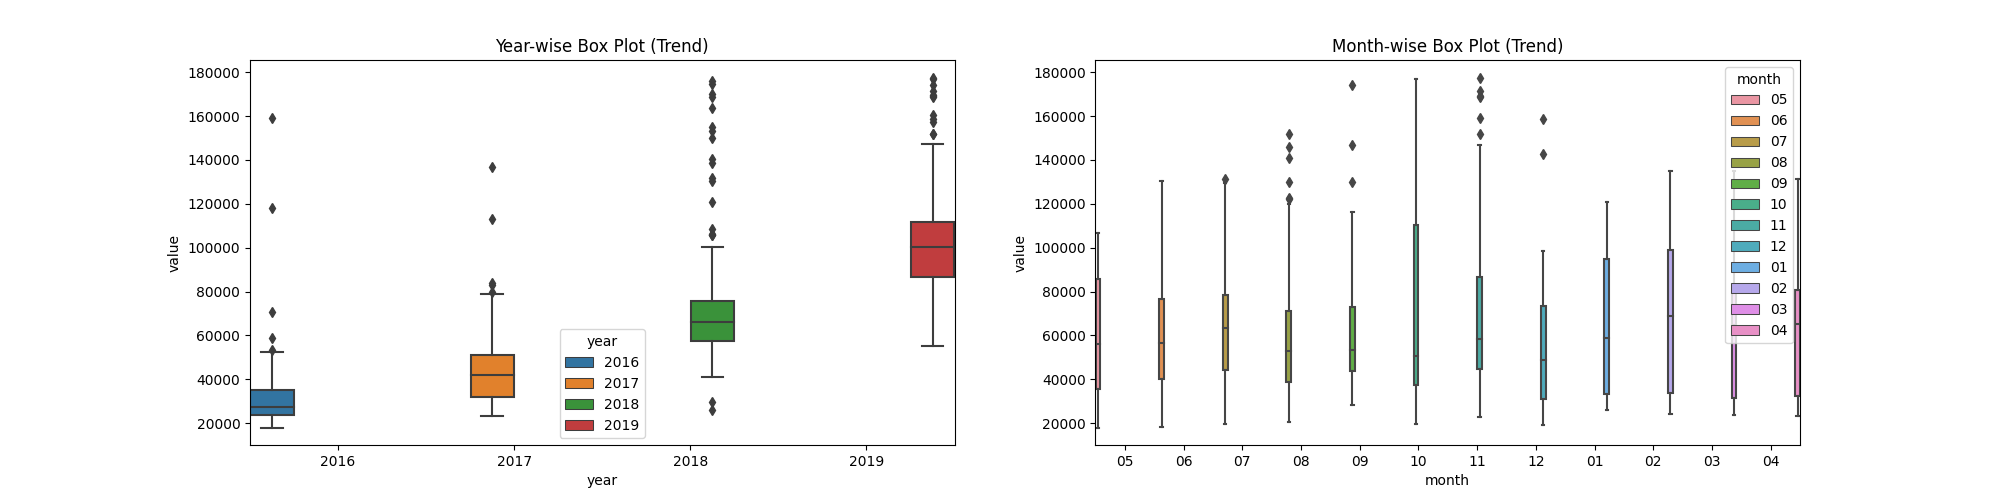
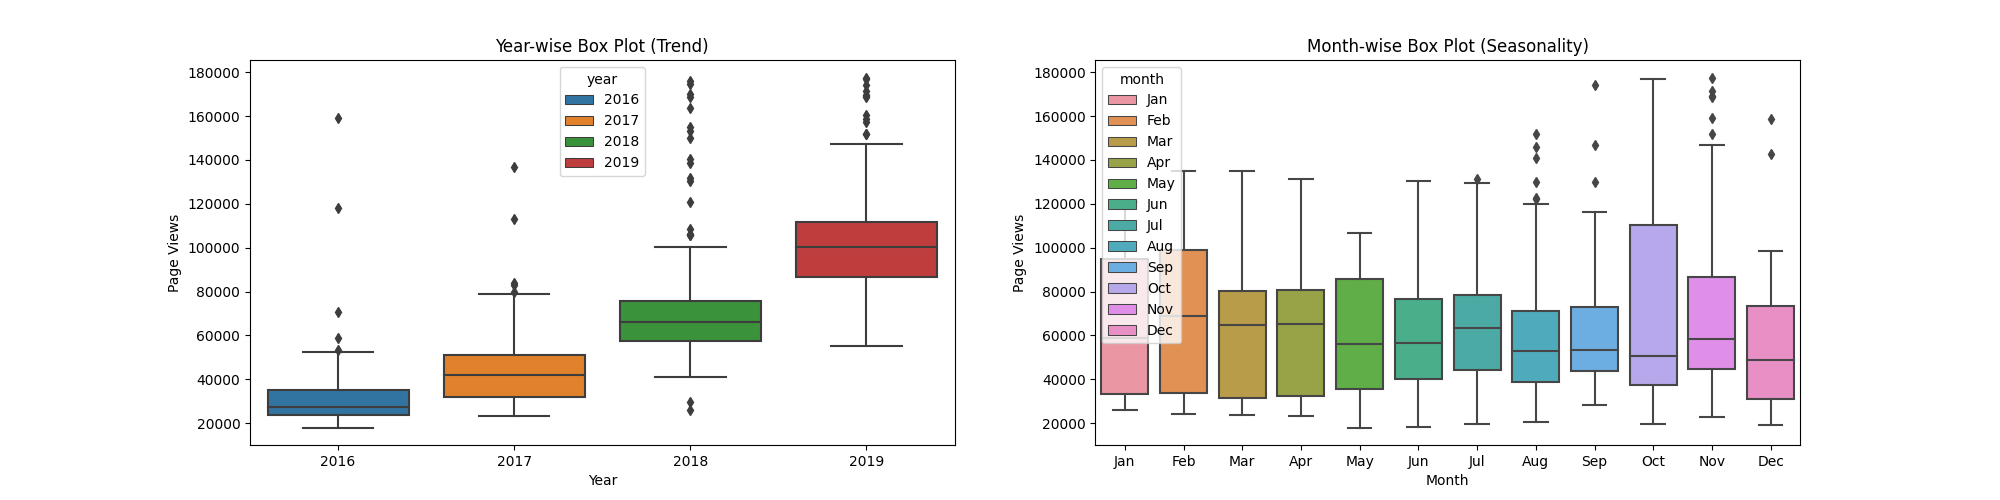
only two test pending

diff --git a/time_series_visualizer.py b/time_series_visualizer.py
@@ -23,7 +23,7 @@ def draw_line_plot():
     ax.plot(df)
     ax.set_xlabel("Date")
     ax.set_ylabel("Page Views")
-    ax.set_title("Daily FCC forum page views 5/16 to 12/19")
+    ax.set_title('Daily freeCodeCamp Forum Page Views 5/2016-12/2019')
     ax.set_facecolor('#95d2a5')
     ax.set_xticks(np.linspace(*ax.get_xbound(), 10))
 
@@ -42,15 +42,18 @@ def draw_bar_plot():
 
     data = df_bar.groupby('month').mean()
     data['year'] = data.index.year
-    data['month'] = data.index.month
-    data['month'] = data['month'].apply(lambda x: calendar.month_abbr[x])
-    print(data)
+    data['month'] = int(data.index.month)
+    data.sort_values(axis=0, by='month', inplace=True)
+    data['month'] = data['month'].apply(lambda x: calendar.month_name[int(x)])
+
 
     # Draw bar plot
     fig, ax = plt.subplots(1,1, figsize=(30,10))
 
+    
+    sns.barplot(ax=ax, data=data, y='value', x='year', hue='month')
+    ax.set_xlabel('Year')
 
-    sns.barplot(data=data, y='value', x='year', hue='month')
     # Save image and return fig (don't change this part)
     return fig
 
@@ -58,15 +61,30 @@ def draw_box_plot():
     # Prepare data for box plots (this part is done!)
     df_box = df.copy()
     df_box.reset_index(inplace=True)
+    df_box['date'] = pd.to_datetime(df_box['date'], format='%Y-%m-%d')
+
+
+
     df_box['year'] = [d.year for d in df_box.date]
-    df_box['month'] = [d.strftime('%b') for d in df_box.date]
-
-    # Draw box plots (using Seaborn)
-
-
+    df_box['month'] = [int(d.strftime('%m')) for d in df_box.date]
+    df_box.sort_values(axis=0, by='month', inplace=True)
+    df_box['month'] = df_box['month'].apply(lambda x: calendar.month_abbr[int(x)])
 
 
-    fig, ax = plt.figure()
+    fig, (ax1, ax2) = plt.subplots(1,2)
+    fig.set_figwidth(20)
+    fig.set_figheight(5)
+
+    #Draw box plots (using Seaborn)
+    sns.boxplot(ax=ax1, data=df_box, x='year', y='value', hue='year', dodge=False)
+    sns.boxplot(ax=ax2, data=df_box, x='month', y='value', hue='month', dodge=False)
+
+    ax1.set_xlabel('Year')
+    ax1.set_ylabel('Page Views')
+    ax1.set_title('Year-wise Box Plot (Trend)')
+    ax2.set_xlabel('Month')
+    ax2.set_ylabel('Page Views')
+    ax2.set_title('Month-wise Box Plot (Seasonality)')
 
     # Save image and return fig (don't change this part)
     fig.savefig('box_plot.png')
